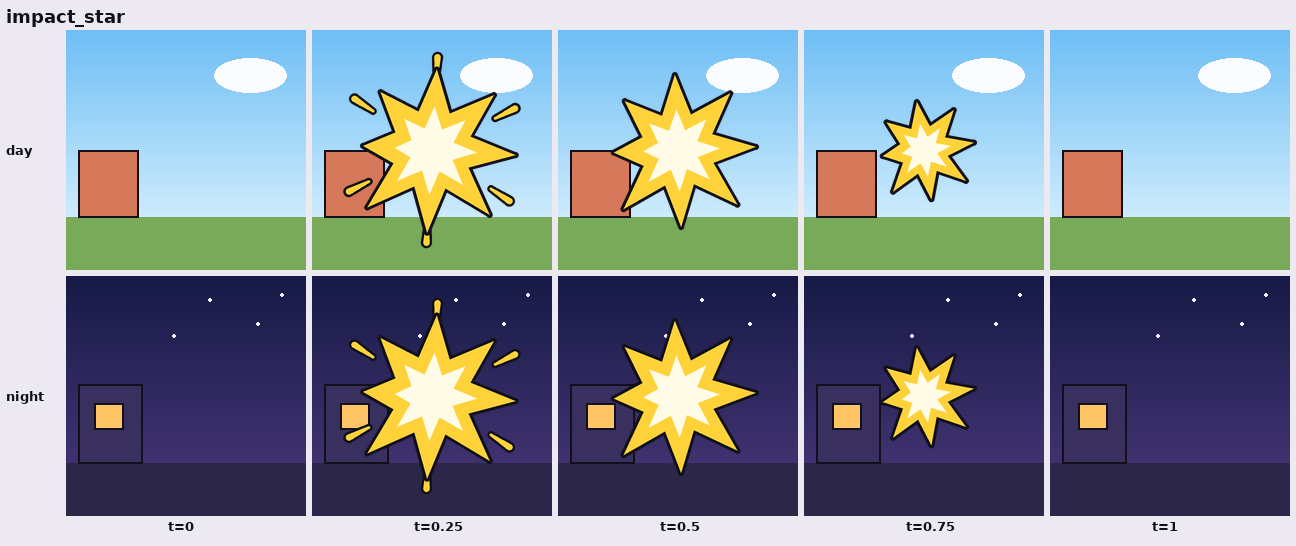
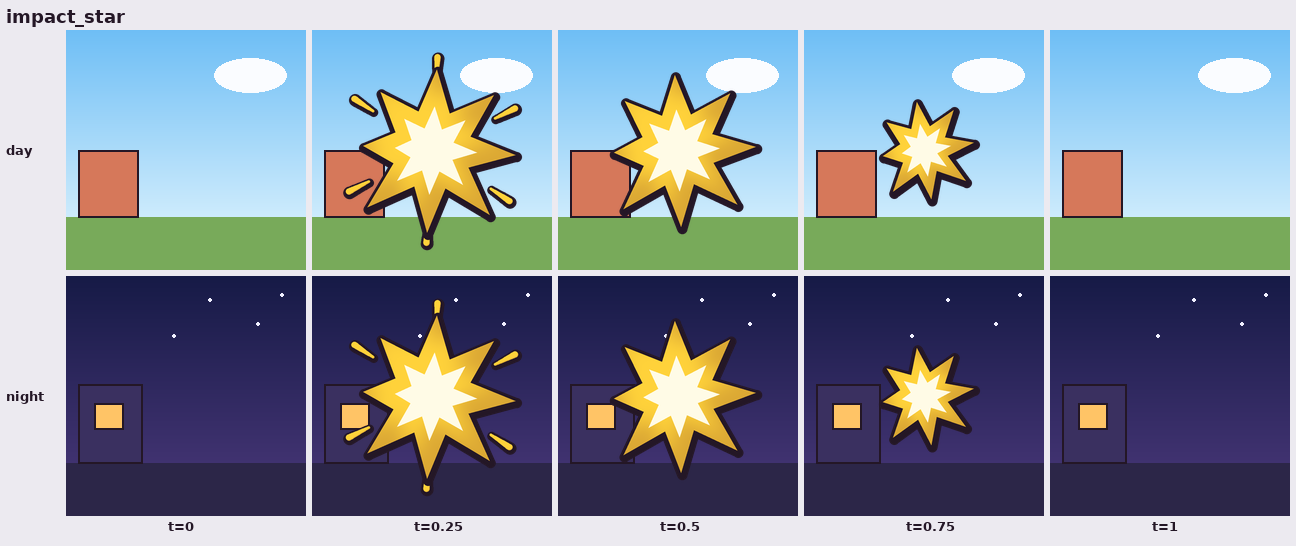
fx: restyle to the bean-head cast (plum ink, 3:1 thick/thin line, crescent shading), with_cast preview
Claude-Session: https://claude.ai/code/session_01CUE843qry1EHijK4cNMuJ6

diff --git a/fx/fx.py b/fx/fx.py
@@ -1,5 +1,6 @@
-# Procedural 2D cartoon effects for the shorts pipeline (flat colour + thin dark ink outline, same style as
-# stickman/scripts/stickman.py). Contract (PIPELINE.md > FX):
+# Procedural 2D cartoon effects for the shorts pipeline, in the bean-head cast style (characters/scripts/bean.py,
+# spec references/reports/characters.md §2): flat saturated fills, plum ink #241726 thin on the top-left and ~3x thicker
+# on the bottom-right (shadow) side, soft crescent shading. Contract (PIPELINE.md > FX):
 #     render(name, t, size, **kw) -> RGBA PIL.Image  (size x size), t runs 0..1 over the effect's life.
 # Every effect is empty at t=0 and t=1 and goes: anticipation (small build / squash) -> peak (ease + overshoot)
 # -> fade (shrink + alpha), see fx/RULES.md.
@@ -7,10 +8,10 @@
 # the OUTPUT image, default scales with size), seed (layout variation). Effect-specific kwargs are listed in NAMES.
 # usage: python fx.py <name> <t> [size] out.png
 import math, random, sys
-from PIL import Image, ImageDraw, ImageFilter
+from PIL import Image, ImageChops, ImageDraw, ImageFilter
 
-S = 4                                   # supersampling, like stickman.py
-INK = (18, 16, 26)                      # #12101a
+S = 4                                   # supersampling, like bean.py
+INK = (36, 23, 38)                      # #241726 plum ink, same as the bean cast (characters/scripts/bean.py)
 
 
 # ---------------------------------------------------------------- easing / timing
@@ -72,17 +73,24 @@ def resample(pts, step):
     return out
 
 
-def shape(d, sh, e, col=None):
+THICK = (math.cos(math.radians(64)) * 0.5, math.sin(math.radians(64)) * 0.5)   # ink shift per unit e -> 1:3 thin/thick
+SH_FX = (0.86, 0.80, 0.90)              # crescent shade multiplier (cool, like the cast's cloth/skin shadow)
+
+
+def shape(d, sh, e, col=None, off=(0.0, 0.0)):
+    """Draw one shape grown by `e` px and moved by off*e_eff (the ink pass uses THICK: thin top-left, thick bottom-right)."""
     k = sh[0]; c = col or sh[-1]
     if k == 'c':
         _, x, y, r, _c = sh
         if r < 0.3: return
-        r = (r + min(e, r * 0.6)) * S                      # tiny shapes get a thinner line: never a lone ink dot
+        ee = min(e, r * 0.6); x += off[0] * ee; y += off[1] * ee     # tiny shapes get a thinner line: no lone ink dot
+        r = (r + ee) * S
         d.ellipse((x * S - r, y * S - r, x * S + r, y * S + r), fill=c)
     elif k == 'e':
         _, x, y, rx, ry, _c = sh
         if min(rx, ry) < 0.3: return
-        e = min(e, min(rx, ry) * 0.6); rx = (rx + e) * S; ry = (ry + e) * S
+        e = min(e, min(rx, ry) * 0.6); x += off[0] * e; y += off[1] * e
+        rx = (rx + e) * S; ry = (ry + e) * S
         d.ellipse((x * S - rx, y * S - ry, x * S + rx, y * S + ry), fill=c)
     elif k == 's':
         pts = sh[1]
@@ -90,12 +98,17 @@ def shape(d, sh, e, col=None):
         wmin = min(p[2] for p in pts)
         if max(p[2] for p in pts) < 0.3: return
         e = min(e, max(p[2] for p in pts) * 0.5)
+        ox, oy = off[0] * e, off[1] * e
         for x, y, w in resample(pts, max(0.4, (wmin + 2 * e) * 0.2)):
             r = (w / 2 + e) * S
-            if r > 0: d.ellipse((x * S - r, y * S - r, x * S + r, y * S + r), fill=c)
+            if r > 0: d.ellipse(((x + ox) * S - r, (y + oy) * S - r, (x + ox) * S + r, (y + oy) * S + r), fill=c)
     elif k == 'p':
-        P = [(x * S, y * S) for x, y in sh[1]]
-        if len(P) < 3: return
+        pts = sh[1]
+        if len(pts) < 3: return
+        if e > 0:
+            xs = [q[0] for q in pts]; ys = [q[1] for q in pts]
+            e = min(e, max(0.5, min(max(xs) - min(xs), max(ys) - min(ys)) * 0.3))
+        P = [((x + off[0] * e) * S, (y + off[1] * e) * S) for x, y in pts]
         d.polygon(P, fill=c)
         if e > 0:
             w = max(1, int(round(2 * e * S)))
@@ -104,13 +117,48 @@ def shape(d, sh, e, col=None):
             for x, y in P: d.ellipse((x - r, y - r, x + r, y + r), fill=c)
 
 
-def group(n, shapes, e, details=(), alpha=1.0, ink=INK):
-    """Draw one outlined silhouette layer. `details` are extra shapes drawn after the fills with no outline."""
-    lay = new(n); d = ImageDraw.Draw(lay)
-    if e > 0:
-        for sh in shapes: shape(d, sh, e, ink)
+def size_of(sh):
+    k = sh[0]
+    if k == 'c': return sh[3]
+    if k == 'e': return min(sh[3], sh[4])
+    if k == 's': return max(p[2] for p in sh[1]) / 2 if sh[1] else 0
+    xs = [q[0] for q in sh[1]]; ys = [q[1] for q in sh[1]]
+    return min(max(xs) - min(xs), max(ys) - min(ys)) / 2
+
+
+def crescent(lay, size, light=(-0.7, -0.7), k=SH_FX):
+    """Cast-style soft crescent shadow: darken the fill except where the mask shifted toward the light still covers it
+    (same idea as fill_shaded() in characters/scripts/bean.py). `size` = typical shape radius in px."""
+    if size < 2: return lay
+    a = lay.getchannel('A')
+    sh = int(round(0.3 * size * S))
+    lit = ImageChops.offset(a, int(light[0] * sh), int(light[1] * sh))
+    lit = lit.filter(ImageFilter.GaussianBlur(max(1, 0.12 * size * S)))
+    lit = ImageChops.multiply(lit, a)
+    r, g, b, _ = lay.split()
+    dark = Image.merge('RGBA', (r.point(lambda v: int(v * k[0])), g.point(lambda v: int(v * k[1])),
+                                b.point(lambda v: int(v * k[2])), a))
+    lay2 = lay.copy(); lay2.putalpha(lit)
+    dark.alpha_composite(lay2)
+    return dark
+
+
+def group(n, shapes, e, details=(), alpha=1.0, ink=INK, shade=True):
+    """One outlined silhouette layer in the cast style: plum ink (thin top-left, ~3x thicker bottom-right) under all
+    fills (one merged silhouette, no seams), soft crescent shading on the fills, then `details` with no outline."""
+    fills = new(n); d = ImageDraw.Draw(fills)
     for sh in shapes: shape(d, sh, 0)
-    for sh in details: shape(d, sh, 0)
+    if shade and shapes:
+        sizes = sorted(size_of(sh) for sh in shapes)
+        fills = crescent(fills, sizes[len(sizes) // 2])
+    lay = new(n)
+    if e > 0:
+        dd = ImageDraw.Draw(lay)
+        for sh in shapes: shape(dd, sh, e, ink, THICK)
+    lay.alpha_composite(fills)
+    if details:
+        dd = ImageDraw.Draw(lay)
+        for sh in details: shape(dd, sh, 0)
     return opacity(lay, alpha)
 
 
@@ -609,7 +657,7 @@ def render(name, t, size=512, **kw):
     if name not in NAMES: raise KeyError(f'unknown fx {name!r}; known: {", ".join(NAMES)}')
     n = int(size); t = clamp(float(t))
     u = n / 2 * 0.9 * kw.get('scale', 1.0)
-    e = kw.get('line', 3.0 if n >= 96 else max(1.5, n / 32))   # same px as the stickman's ~3 px line
+    e = kw.get('line', 5.0 if n >= 160 else max(2.0, n / 32))   # mean ink px; thin 0.5x / thick 1.5x (cast props ~10*scale)
     im = NAMES[name][0](t, n, u, e, kw)
     return im.resize((n, n), Image.LANCZOS)
 

diff --git a/BACKLOG.md b/BACKLOG.md
@@ -27,7 +27,15 @@ Take the highest-priority open item in **your area**. Tick it (`[x]`) with the c
 ## fx (`fx/`)
 - [x] P1 `fx/fx.py` with: explosion, impact_star, dust_puff, speed_lines, sweat_drop, anger_vein, glow_eyes, sparkle, splash, question_mark, exclaim, music_note. (claude/area-fx) After 4 review rounds, 11 of 12 effects pass (every score >= 7). See `fx/RULES.md`.
 - [x] P1 `fx/CATALOG.md` with preview strips (`fx/previews/`), a demo GIF, and automatic checks in `fx/scripts/catalog.py`.
-- [ ] P1 glow_eyes: round 4 scored readability 6 and style 5 because the translucent blurred halo looked muddy. It now uses a solid flat outlined halo with rays, which has not been re-reviewed. Re-review it, and try a version with no halo (rays only) if it still reads as "big eyes" rather than "glow".
+- [x] Restyled the fx to the bean-head cast (plum ink #241726, 3:1 thick/thin weight, crescent shading), as the Producer asked. An independent review passed all 12 effects at 7 or higher (glow_eyes 8/7/7). The previews are `fx/previews/with_cast.png`.
+- [ ] P2 fx polish from the cast review:
+  - glow_eyes: scale in from a slit, sit it about 70% smaller and below the brows when placed on a face;
+  - anger_vein and question_mark: ease the exit over 2-3 more frames;
+  - splash: give the ripple ring the 3:1 ink weight;
+  - speed_lines: taper the tails;
+  - sweat_drop: default scale about 1.3x;
+  - sparkle: fade the minis out instead of shrinking them below 10 px;
+  - dust_puff: a darker crescent on day plates.
 - [ ] P2 fx polish from review round 4: sparkle peaks at 3/12 and should leave no sub-3 px specks; exclaim's tick dashes need a visible outline at night; the splash ring should fade by alpha, not by thinning; the question_mark hook should grow with its dot at 1/12; the double note in music_note should ease in over 2-3 frames; explosion and dust_puff leave pixel debris in their last third.
 - [ ] P2 engine: composite fx with `line=3.2*char_scale` so the fx outline matches the character's outline (see CATALOG.md).
 - [ ] P2 Light shafts and a lens flash.

diff --git a/fx/RULES.md b/fx/RULES.md
@@ -9,7 +9,7 @@ These are fx-specific lessons from review. Follow them for every new effect, and
 5. **Scale stroke widths with the sprite.** When a glyph is transformed, scale `w` with `k` as well as the positions. Otherwise a shrinking "?" becomes a fat blob.
 6. **Tiny shapes get a thinner outline** (`min(e, r*0.6)`). A full 3 px line on a 1 px dot reads as a black speck that pops.
 7. **No blurred glows.** Gaussian halos break the flat style and smear on day plates. Use flat cel rings at low alpha. If you ever must blur, blur only the alpha and keep the RGB solid, because blurring straight RGBA drags in black.
-8. **Outline weight:** use `line` = 3 px in output pixels at the character's scale, not a size-relative width. That way the effect and the stickman share one line weight.
+8. **Line style follows the main cast** (bean-head, `characters.md` §2). Use plum ink `#241726`, drawn as one ink pass grown by `e` and shifted toward 64° (bottom-right) by 0.5e, so the line is thin on the top-left and about 3x thicker on the bottom-right. Fills get the soft crescent shade (`crescent()`, like `fill_shaded()` in bean.py). Size `line` to the character's scale (about `10*char_scale`), not to the sprite size.
 9. **Draw outlines first, then all fills** (one merged silhouette, DRAWING_RULES 8). Details such as highlights and cores go on top with no outline.
 10. **Day contrast:** pale fills (pale yellow, cyan) vanish on a light sky. Pick saturated mid-tones (`#ffe45c`, `#2fa8ec`) and let the ink outline carry the edge at night.
 11. **Stagger groups in an order** (middle first, or left to right). Random delays look like pops.

diff --git a/fx/CATALOG.md b/fx/CATALOG.md
@@ -1,6 +1,6 @@
 # FX catalog
 
-`fx/fx.py` draws every effect procedurally (4x supersampled, flat colour, `#12101a` outline), in the same style as `stickman/scripts/stickman.py`.
+`fx/fx.py` draws every effect procedurally (4x supersampled, flat saturated colour, soft crescent shading, plum ink `#241726` that is thin on the top-left and about 3x thicker on the bottom-right), in the bean-head cast style (`characters/scripts/bean.py`, spec `references/reports/characters.md` §2).
 
 ```python
 import sys; sys.path.insert(0, 'fx'); import fx
@@ -12,7 +12,7 @@ img = fx.render('explosion', t=0.3, size=400, color='#ff8a1f')   # RGBA 400x400,
 - **Common kwargs:**
   - `color`: hex or RGB.
   - `scale`: default 1.
-  - `line`: the outline width in output px. The default is 3, the same as the stickman's line when both are composited at the same scale. If the engine scales the character by `k`, pass `line=3.2*k`.
+  - `line`: the mean ink width in output px. The thin side is 0.5x and the thick side 1.5x. The default is 5. To match the cast's props, pass `line=10*k` when the engine scales the 600x1000 character card by `k`.
   - `seed`: varies the layout.
 - **Anchors:**
   - `dust_puff` and `splash` sit their base on a ground line at about 0.72 of the canvas height.
